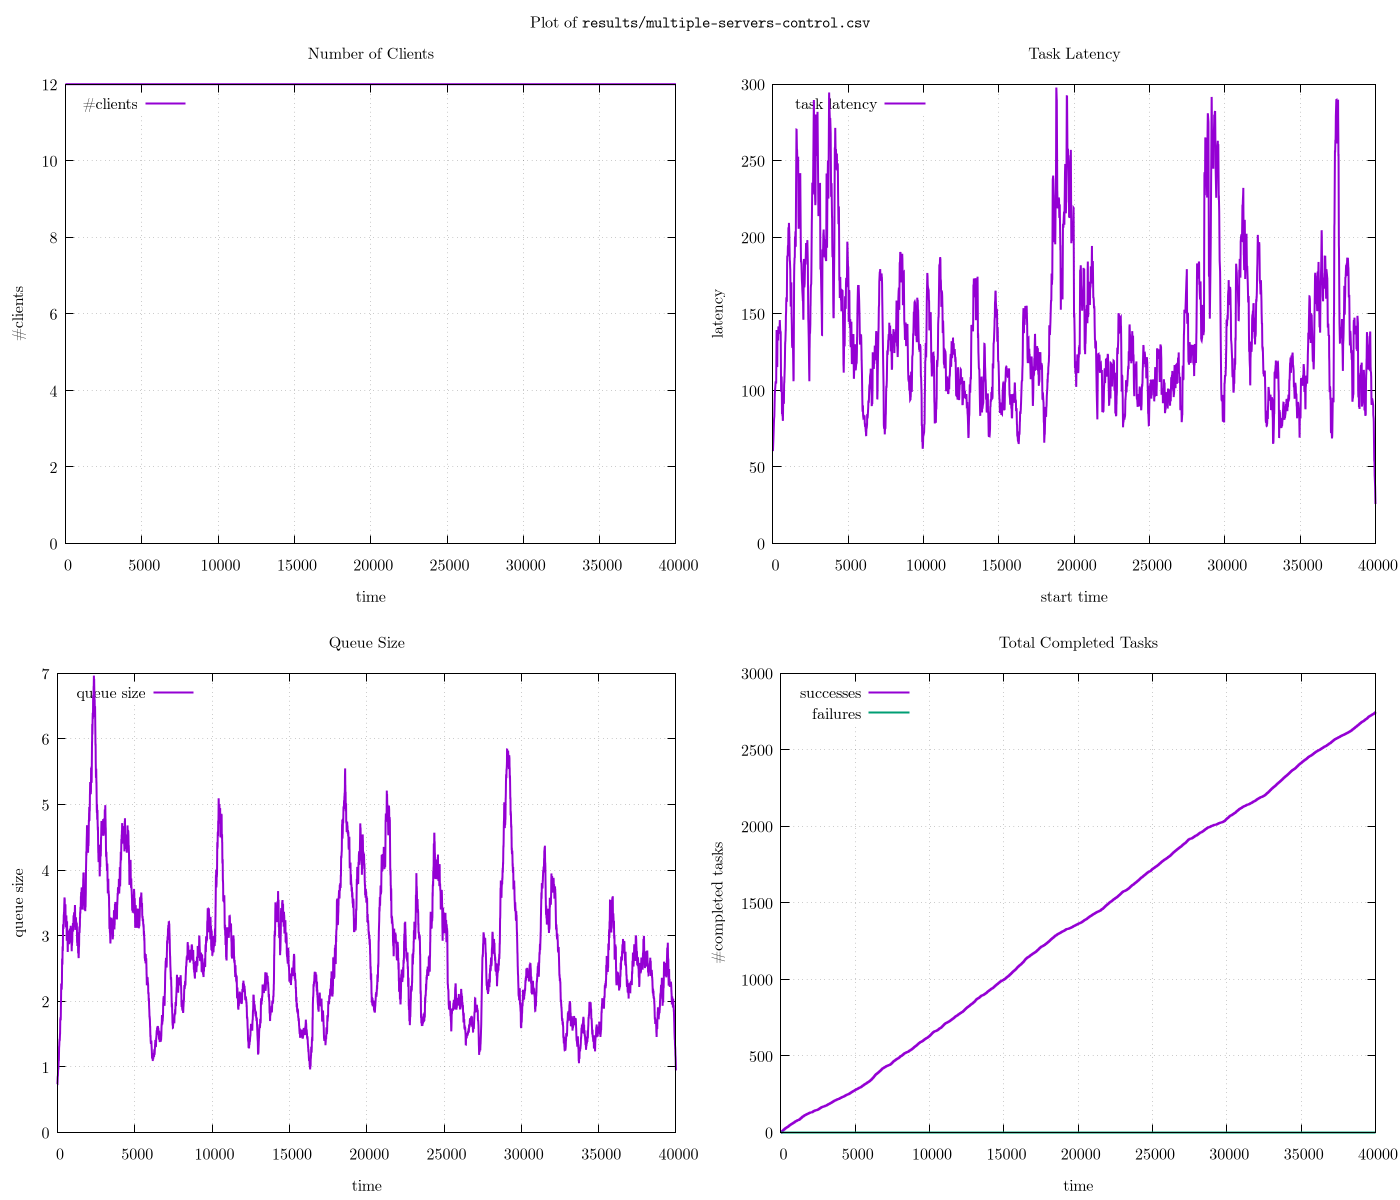
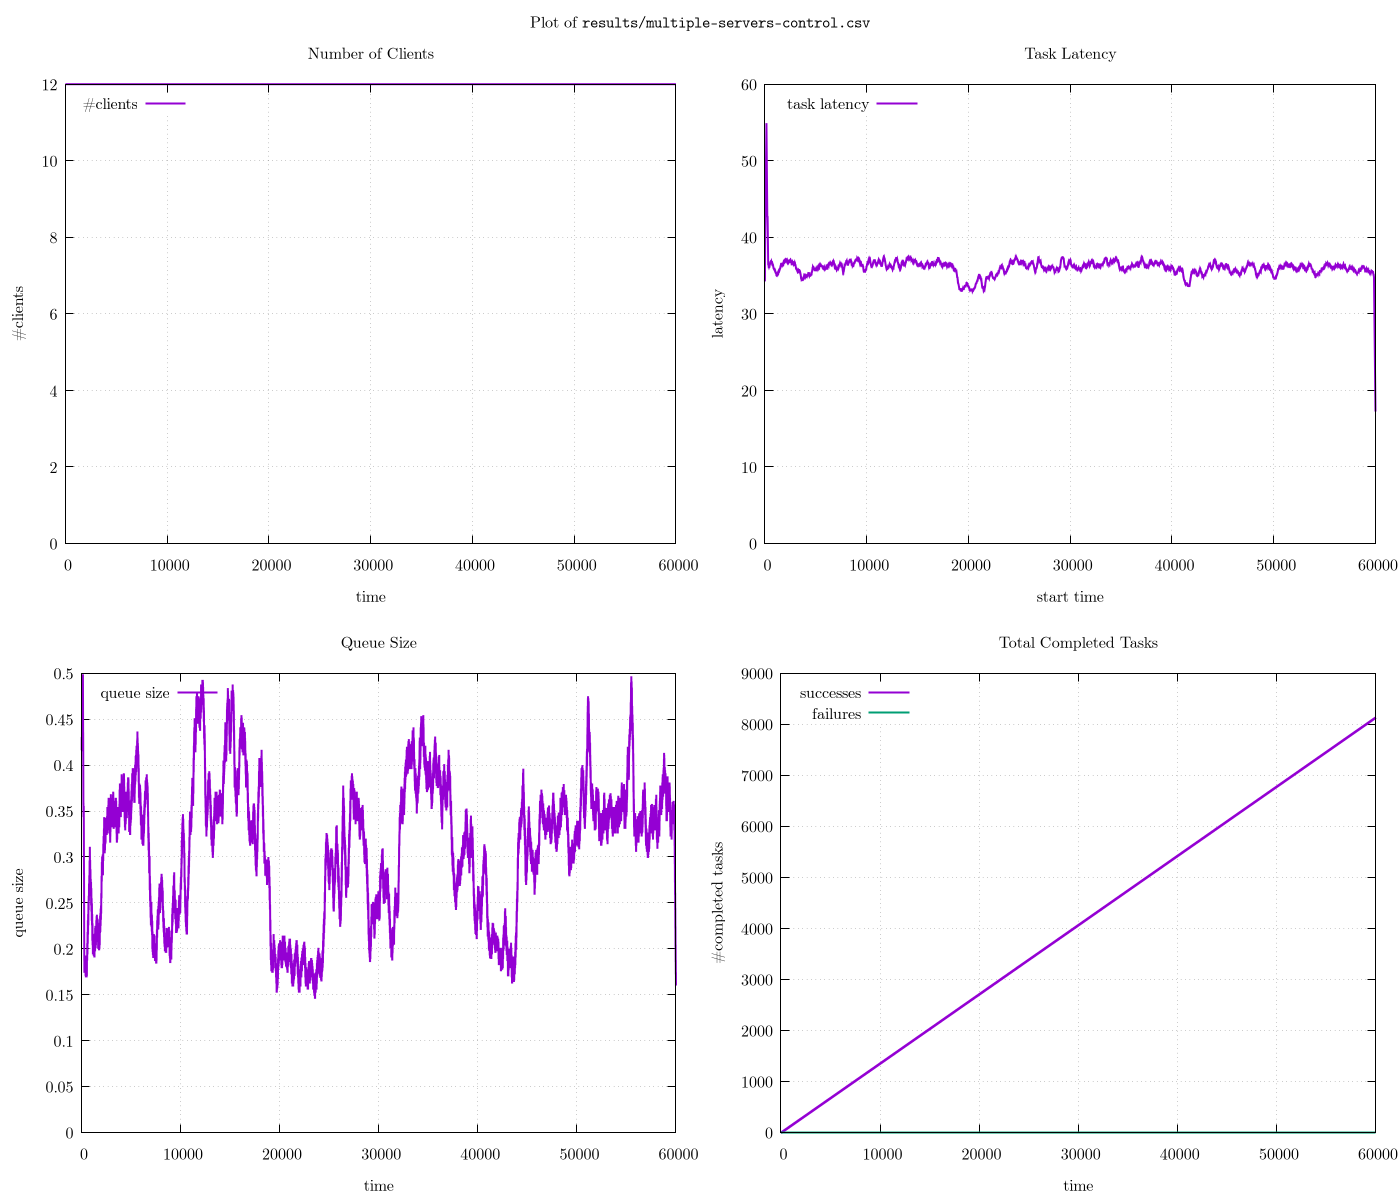
Working multi server example

diff --git a/main.py b/main.py
@@ -1102,11 +1102,13 @@ def run_experiment(
         queue: Addr
 
     lb_outstanding: dict[Ref, Outstanding] = {}
+    num_requests_sent = {addr: 0 for addr in queue_addrs}
 
     @load_balancer.branch_handler(SubmitWork)
     async def submit_work(sender: Addr, ref: Ref):
-        worker_queue_addr = rng().choice(queue_addrs)
+        worker_queue_addr = min(queue_addrs, key=lambda addr: num_requests_sent[addr])
         send(worker_queue_addr, Enqueue, self(), ref, (sender, ref))
+        num_requests_sent[worker_queue_addr] += 1
         lb_outstanding[ref] = Outstanding(
             sender=sender, ref=ref, queue=worker_queue_addr
         )
@@ -1422,15 +1424,15 @@ def multiple_servers(version: Literal["control", "test"]):
             num_workers=4,
             queue_size=10,
             num_retries=100_000,
-            num_epochs=40_000,
+            num_epochs=60_000,
             spike_offset=12000 if version == "test" else 100_000,
             spike_duration=2000,
             num_clients=12,
             num_clients_spike=20,
             num_clients_after_spike=12,
-            submit_timeout=100,
-            work_time_range=(26, 27),
-            inter_task_sleep_range=(42, 44),
+            submit_timeout=83,
+            work_time_range=(25, 27),
+            inter_task_sleep_range=(49, 52),
             retry_policy=constant_retry(2),
         )
     )
